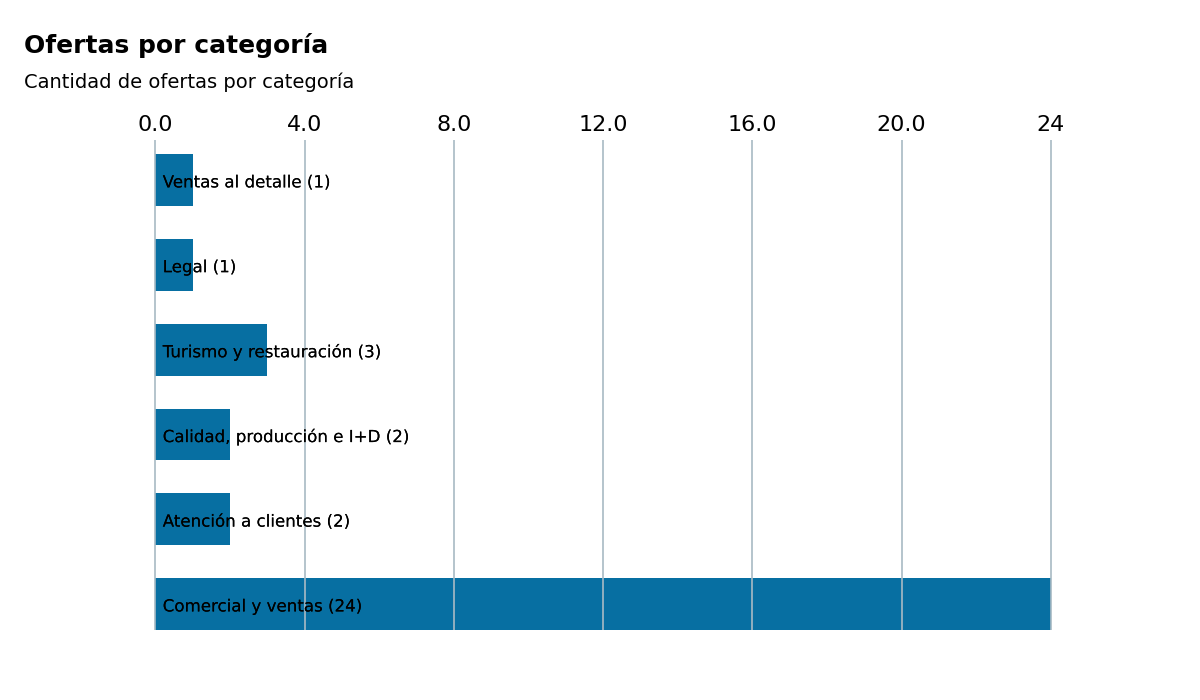
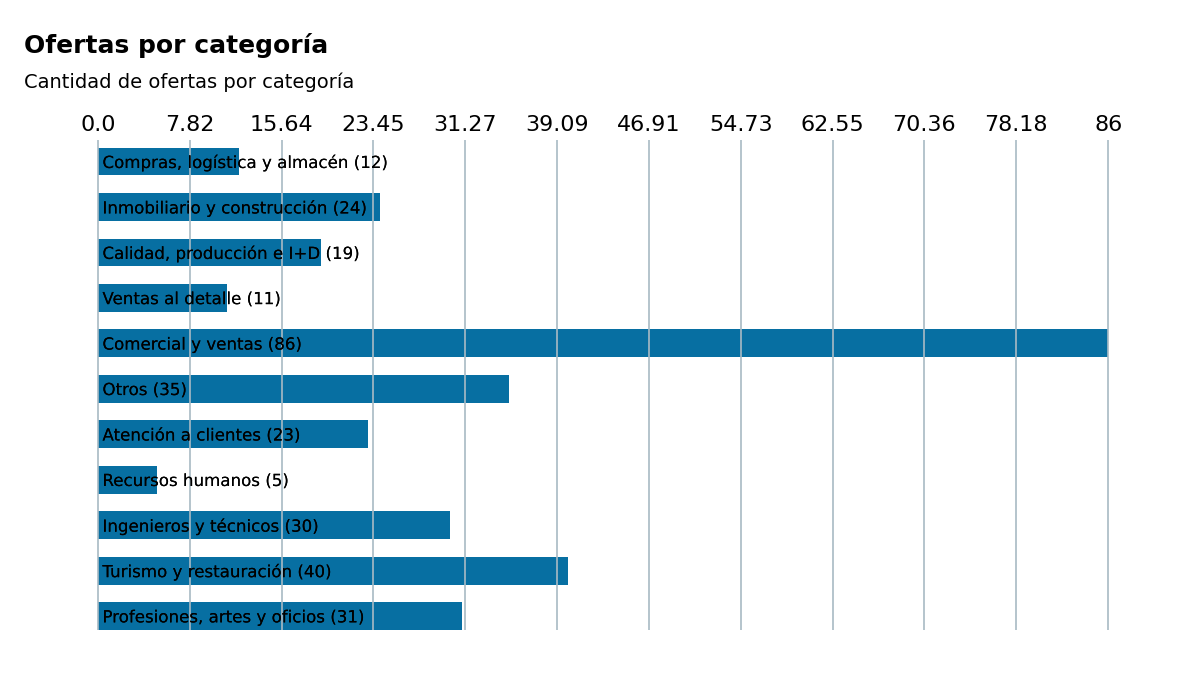
last fill database

Changed region(s): [[0.0617, 0.15, 0.925, 0.9], [0.4317, 0.15, 0.555, 0.21], [0.8325, 0.15, 0.925, 0.21]]

diff --git a/src/jobs/extract_offers_data.py b/src/jobs/extract_offers_data.py
@@ -47,7 +47,6 @@ def extract_offers_data(begin_page: int, end_page: int, clear: bool = False):
         skills: dict[str, list] = {}
         for offer in offers:
             offer_detail = get_offer(offer.id)
-            print(offer_detail.category)
             serialized_offer = offer.serialize()
             if offer_detail.category in categories: categories[offer_detail.category].append(serialized_offer)
             else: categories[offer_detail.category] = [serialized_offer]
@@ -57,7 +56,7 @@ def extract_offers_data(begin_page: int, end_page: int, clear: bool = False):
                 if skill in skills: skills[skill].append(serialized_offer)
                 else: skills[skill] = [serialized_offer]
             add_category_skills(offer_detail.category, offer_detail.skills)
-            print("offer:", offer.title)
+            print("offer:", offer.title, "|", "category:", offer.category, "|", "country:", offer.country)
         save_entity(categories, "category")
         save_entity(countries, "country")
         save_entity(skills, "skill")

diff --git a/src/fill_db.py b/src/fill_db.py
@@ -1,3 +1,3 @@
 from jobs.extract_offers_data import extract_offers_data
 
-extract_offers_data(1, 2, True)
+extract_offers_data(1, 20, True)

diff --git a/notes.md b/notes.md
@@ -9,6 +9,3 @@ https://discord.gg/mNej9jDP
 ## Ideas
 
 ## ToDo
-* Llenar la base de datos con las ofertas de todas las páginas
-* Regenerar las imágenes
-* Ejemplos de los comandos
